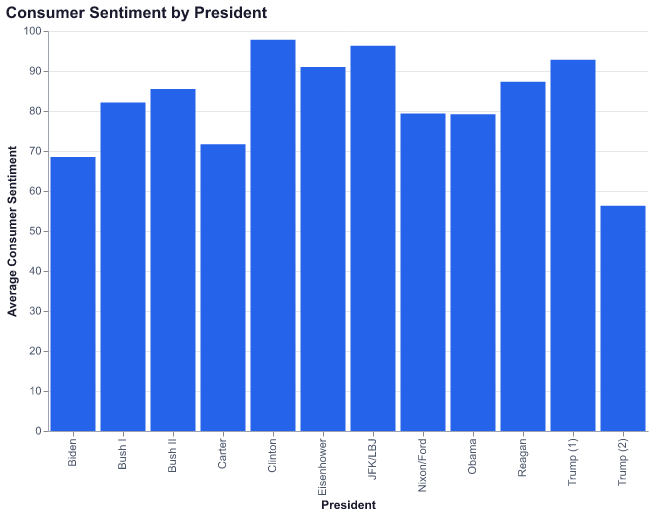
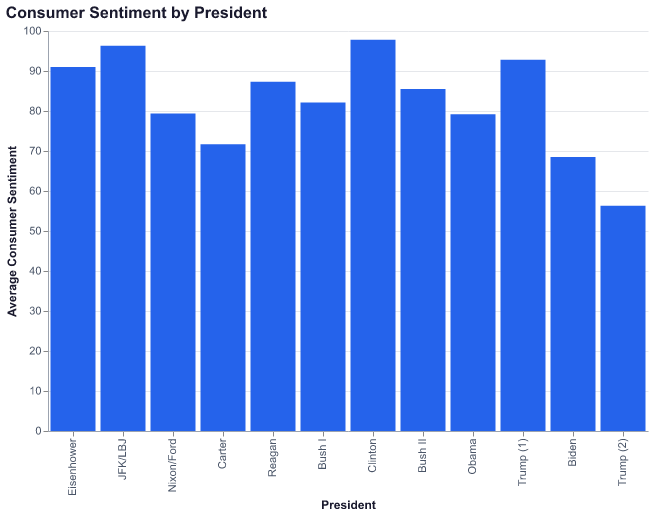
boomcession fix

diff --git a/charts/altair_renderer/renderer.py b/charts/altair_renderer/renderer.py
@@ -139,7 +139,12 @@ class AltairRenderer:
             if spec.x_format == "year":
                 bar_x = x_axis  # Use the ordinal year axis with formatting
             else:
-                bar_x = alt.X(f"{spec.x}:N", title=spec.x_label) if spec.x else alt.X()
+                # Check for explicit sort order in options
+                sort_order = spec.options.get("x_sort_order") if spec.options else None
+                if sort_order:
+                    bar_x = alt.X(f"{spec.x}:N", title=spec.x_label, sort=sort_order)
+                else:
+                    bar_x = alt.X(f"{spec.x}:N", title=spec.x_label) if spec.x else alt.X()
             return chart.mark_bar().encode(
                 x=bar_x,
                 y=y_axis,

diff --git a/charts/generate_dual.py b/charts/generate_dual.py
@@ -2423,7 +2423,7 @@ def get_boomcession_chart_specs() -> list[ChartSpec]:
             y="sentiment",
             x_label="President",
             y_label="Average Consumer Sentiment",
-            options={"sort_by_value": False},  # Keep chronological order
+            options={"x_sort_order": ["Eisenhower", "JFK/LBJ", "Nixon/Ford", "Carter", "Reagan", "Bush I", "Clinton", "Bush II", "Obama", "Trump (1)", "Biden", "Trump (2)"]},
         ),
         ChartSpec(
             chart_id="boom-correlation",
